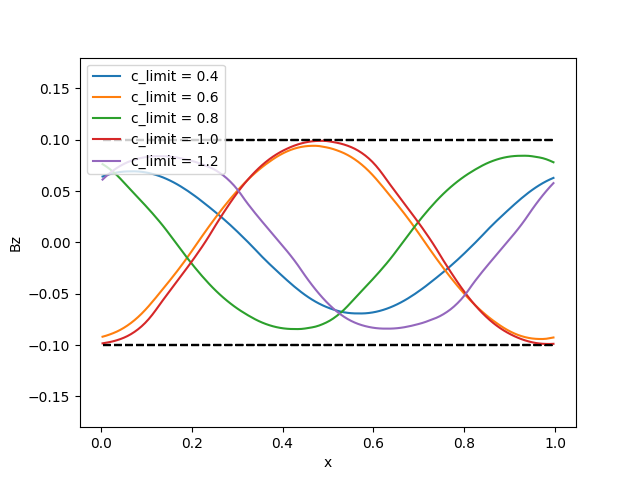
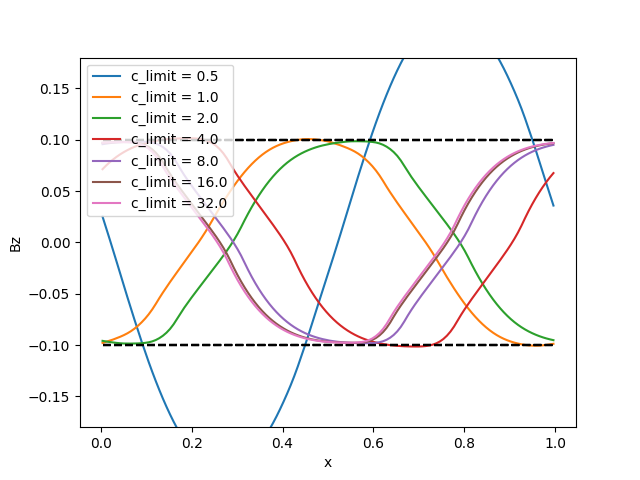
update to full Matsumoto HLL-Boris method

diff --git a/mhd-boris.py b/mhd-boris.py
@@ -11,6 +11,18 @@ Adam Reyes
 Simulate the Orszag-Tang vortex MHD problem (+more)
 with a Boris-like Integrator to control timesteps!
 
+See equations (1) -- (8) of https://arxiv.org/abs/1902.02810
+
+MAIN DIFFERENCE is that:
+
+* Momentum is now (1 + ca^2/c_limit^2) * (rho*v) instead of (rho*v)
+* Reimann solver will use modified wave speeds and U states that account for Boris factor
+* Timestep is increased according to the Boris factor
+
+* NOTE: use llf for now, not HLLD, which does not yet account for modified wave speeds
+
+I mark points of change from vanilla-MHD model with "!!!" in comments.
+
 The original problem has cf_max ~ 1.9, v_max ~ 1.6
 """
 
@@ -67,7 +79,7 @@ def get_avg(bx, by):
     return Bx, By
 
 
-def get_conserved(rho, vx, vy, vz, P, Bx, By, Bz, gamma, vol):
+def get_conserved(rho, vx, vy, vz, P, Bx, By, Bz, gamma, vol, c_limit):
     """
     Calculate the conserved variable from the primitive
     rho      is matrix of cell densities
@@ -83,10 +95,11 @@ def get_conserved(rho, vx, vy, vz, P, Bx, By, Bz, gamma, vol):
     Momy     is matrix of y-momentum in cells
     Energy   is matrix of energy in cells
     """
+    rho_A = (Bx**2 + By**2 + Bz**2) / c_limit**2  # !!!
     Mass = rho * vol
-    Momx = rho * vx * vol
-    Momy = rho * vy * vol
-    Momz = rho * vz * vol
+    Momx = (rho + rho_A) * vx * vol
+    Momy = (rho + rho_A) * vy * vol
+    Momz = (rho + rho_A) * vz * vol
     Energy = (
         (P - 0.5 * (Bx**2 + By**2 + Bz**2)) / (gamma - 1.0)
         + 0.5 * rho * (vx**2 + vy**2 + vz**2)
@@ -113,26 +126,10 @@ def get_primitive(Mass, Momx, Momy, Momz, Energy, Bx, By, Bz, gamma, vol, c_limi
     P        is matrix of cell Total pressures
     """
     rho = Mass / vol
-    vx = Momx / rho / vol
-    vy = Momy / rho / vol
-    vz = Momz / rho / vol
-    P = (
-        Energy / vol
-        - 0.5 * rho * (vx**2 + vy**2 + vz**2)
-        - 0.5 * (Bx**2 + By**2 + Bz**2)
-    ) * (gamma - 1.0) + 0.5 * (Bx**2 + By**2 + Bz**2)
-
-    # Try 2: apply boris factor in recovering the velocity
-    # c0 = np.sqrt( gamma*(P-0.5*(Bx**2+By**2+Bz**2))/rho )
-    c0 = np.sqrt(gamma * (np.maximum(P - 0.5 * (Bx**2 + By**2 + Bz**2), 1.0e-16)) / rho)
-    ca = np.sqrt((Bx**2 + By**2 + Bz**2) / rho)
-    cf = np.sqrt(c0**2 + ca**2)
-    # alphaSq = np.minimum(1.0, c_limit / cf)**2
-    alphaSq = 1.0 / (1.0 + ca**2 / c_limit**2)
-    vx *= alphaSq
-    vy *= alphaSq
-    vz *= alphaSq
-    # recalculate the pressure
+    rho_A = (Bx**2 + By**2 + Bz**2) / c_limit**2  # !!!
+    vx = Momx / (rho + rho_A) / vol
+    vy = Momy / (rho + rho_A) / vol
+    vz = Momz / (rho + rho_A) / vol
     P = (
         Energy / vol
         - 0.5 * rho * (vx**2 + vy**2 + vz**2)
@@ -687,11 +684,11 @@ def get_flux_llf(
     ca_R = np.sqrt((Bx_R**2 + By_R**2 + Bz_R**2) / rho_R)
     cf_L = np.sqrt(c0_L**2 + ca_L**2)
     cf_R = np.sqrt(c0_R**2 + ca_R**2)
-    # apply boris factor to wave speeds and momentum flux
-    # alpha_L = np.minimum(1.0, c_limit / cf_L)
-    # alpha_R = np.minimum(1.0, c_limit / cf_R)
-    # alpha = np.minimum(alpha_L, alpha_R)
-    # alphaSq = alpha**2
+    # !!! apply boris factor to wave speeds
+    alpha_L = 1.0 / np.sqrt(1.0 + (ca_L / c_limit) ** 2)
+    alpha_R = 1.0 / np.sqrt(1.0 + (ca_R / c_limit) ** 2)
+    cf_L *= alpha_L
+    cf_R *= alpha_R
 
     # left and right energies
     en_L = (
@@ -706,48 +703,67 @@ def get_flux_llf(
     )
 
     # compute star (averaged) states
-    rho_star = 0.5 * (rho_L + rho_R)
-    momx_star = 0.5 * (rho_L * vx_L + rho_R * vx_R)
-    momy_star = 0.5 * (rho_L * vy_L + rho_R * vy_R)
-    momz_star = 0.5 * (rho_L * vz_L + rho_R * vz_R)
-    en_star = 0.5 * (en_L + en_R)
-    Bx_star = 0.5 * (Bx_L + Bx_R)
-    By_star = 0.5 * (By_L + By_R)
-    Bz_star = 0.5 * (Bz_L + Bz_R)
+    # rho_star = 0.5 * (rho_L + rho_R)
+    # momx_star = 0.5 * (rho_L * vx_L + rho_R * vx_R)
+    # momy_star = 0.5 * (rho_L * vy_L + rho_R * vy_R)
+    # momz_star = 0.5 * (rho_L * vz_L + rho_R * vz_R)
+    # en_star = 0.5 * (en_L + en_R)
+    # Bx_star = 0.5 * (Bx_L + Bx_R)
+    # By_star = 0.5 * (By_L + By_R)
+    # Bz_star = 0.5 * (Bz_L + Bz_R)
 
-    P_star = (gamma - 1.0) * (
-        en_star
-        - 0.5 * (momx_star**2 + momy_star**2 + momz_star**2) / rho_star
-        - 0.5 * (Bx_star**2 + By_star**2 + Bz_star**2)
-    ) + 0.5 * (Bx_star**2 + By_star**2 + Bz_star**2)
+    # P_star = (gamma - 1.0) * (
+    #    en_star
+    #    - 0.5 * (momx_star**2 + momy_star**2 + momz_star**2) / rho_star
+    #    - 0.5 * (Bx_star**2 + By_star**2 + Bz_star**2)
+    # ) + 0.5 * (Bx_star**2 + By_star**2 + Bz_star**2)
 
     # compute fluxes (local Lax-Friedrichs/Rusanov)
-    flux_Mass = momx_star
-    flux_Momx = momx_star**2 / rho_star + P_star - Bx_star * Bx_star
-    flux_Momy = momx_star * momy_star / rho_star - Bx_star * By_star
-    flux_Momz = momx_star * momz_star / rho_star - Bx_star * Bz_star
-    flux_Energy = (en_star + P_star) * momx_star / rho_star - Bx_star * (
-        Bx_star * momx_star + By_star * momy_star + Bz_star * momz_star
-    ) / rho_star
-    flux_By = (By_star * momx_star - Bx_star * momy_star) / rho_star
-    flux_Bz = (Bz_star * momx_star - Bx_star * momz_star) / rho_star
+    # Use the star state
+    # flux_Mass = momx_star
+    # flux_Momx = momx_star**2 / rho_star + P_star - Bx_star * Bx_star
+    # flux_Momy = momx_star * momy_star / rho_star - Bx_star * By_star
+    # flux_Momz = momx_star * momz_star / rho_star - Bx_star * Bz_star
+    # flux_Energy = (en_star + P_star) * momx_star / rho_star - Bx_star * (
+    #    Bx_star * momx_star + By_star * momy_star + Bz_star * momz_star
+    # ) / rho_star
+    # flux_By = (By_star * momx_star - Bx_star * momy_star) / rho_star
+    # flux_Bz = (Bz_star * momx_star - Bx_star * momz_star) / rho_star
 
-    ## Try 1
-    # flux_Momx *= alphaSq
-    # flux_Momy *= alphaSq
-    # flux_Momz *= alphaSq
-    # cf_L *= alpha
-    # cf_R *= alpha
+    # compute fluxes (local Lax-Friedrichs/Rusanov)
+    # Average the left and right fluxes
+    flux_Mass = 0.5 * (rho_L * vx_L + rho_R * vx_R)
+    flux_Momx = 0.5 * (
+        rho_L * vx_L**2 + P_L - Bx_L**2 + rho_R * vx_R**2 + P_R - Bx_R**2
+    )
+    flux_Momy = 0.5 * (
+        rho_L * vx_L * vy_L - Bx_L * By_L + rho_R * vx_R * vy_R - Bx_R * By_R
+    )
+    flux_Momz = 0.5 * (
+        rho_L * vx_L * vz_L - Bx_L * Bz_L + rho_R * vx_R * vz_R - Bx_R * Bz_R
+    )
+    flux_Energy = 0.5 * (
+        (en_L + P_L) * vx_L
+        - Bx_L * (vx_L * Bx_L + vy_L * By_L + vz_L * Bz_L)
+        + (en_R + P_R) * vx_R
+        - Bx_R * (vx_R * Bx_R + vy_R * By_R + vz_R * Bz_R)
+    )
+    flux_By = 0.5 * (By_L * vx_L - Bx_L * vy_L + By_R * vx_R - Bx_R * vy_R)
+    flux_Bz = 0.5 * (Bz_L * vx_L - Bx_L * vz_L + Bz_R * vx_R - Bx_R * vz_R)
 
     C_L = cf_L + np.abs(vx_L)
     C_R = cf_R + np.abs(vx_R)
     C = np.maximum(C_L, C_R)
 
+    # !!! apply Boris correction to U states
+    rhoA_L = (Bx_L**2 + By_L**2 + Bz_L**2) / (c_limit**2)
+    rhoA_R = (Bx_R**2 + By_R**2 + Bz_R**2) / (c_limit**2)
+
     # add stabilizing diffusive term
     flux_Mass -= C * 0.5 * (rho_R - rho_L)
-    flux_Momx -= C * 0.5 * (rho_R * vx_R - rho_L * vx_L)
-    flux_Momy -= C * 0.5 * (rho_R * vy_R - rho_L * vy_L)
-    flux_Momz -= C * 0.5 * (rho_R * vz_R - rho_L * vz_L)
+    flux_Momx -= C * 0.5 * ((rho_R + rhoA_R) * vx_R - (rho_L + rhoA_L) * vx_L)  # !!!
+    flux_Momy -= C * 0.5 * ((rho_R + rhoA_R) * vy_R - (rho_L + rhoA_L) * vy_L)
+    flux_Momz -= C * 0.5 * ((rho_R + rhoA_R) * vz_R - (rho_L + rhoA_L) * vz_L)
     flux_Energy -= C * 0.5 * (en_R - en_L)
     flux_By -= C * 0.5 * (By_R - By_L)
     flux_Bz -= C * 0.5 * (Bz_R - Bz_L)
@@ -1035,11 +1051,11 @@ def main():
 
     # Get conserved variables
     Mass, Momx, Momy, Momz, Energy = get_conserved(
-        rho, vx, vy, vz, P, Bx, By, Bz, gamma, vol
+        rho, vx, vy, vz, P, Bx, By, Bz, gamma, vol, c_limit
     )
 
     # keep track of timesteps
-    dt_sav = []
+    dt_save = []
 
     # prep figure
     plt.figure(figsize=(4, 4), dpi=80)
@@ -1064,8 +1080,8 @@ def main():
         cf_max = np.max(cf)
         # alpha = np.minimum(1.0, c_limit / np.sqrt(c0**2 + ca**2))
         alpha1 = np.minimum(1.0, c_limit / np.sqrt(c0**2 + ca**2))
-        alpha = 1.0 / np.sqrt(1.0 + ca**2 / c_limit**2)
-        # Try 1 & 2
+        alpha = 1.0 / np.sqrt(1.0 + (ca / c_limit) ** 2)
+        # !!! apply boris factor to wave speeds
         cf *= alpha
         dt = courant_fac * np.min(dx / (cf + np.sqrt(vx**2 + vy**2 + vz**2)))
         v_max = np.max(np.sqrt(vx**2 + vy**2 + vz**2))
@@ -1135,7 +1151,7 @@ def main():
         t += dt
 
         # save timestep
-        dt_sav.append(dt)
+        dt_save.append(dt)
 
         # check div B
         divB = get_div(bx, by, dx)
@@ -1191,7 +1207,7 @@ def main():
     plt.savefig(prefix + "P_B_" + str(c_limit) + ".png", dpi=240)
     # plt.show()
 
-    # Save rho, P_B, v, vA, cf, and dt_sav
+    # Save rho, P_B, v, vA, cf, and dt_save
     Bx, By = get_avg(bx, by)
     rho, vx, vy, vz, P = get_primitive(
         Mass, Momx, Momy, Momz, Energy, Bx, By, Bz, gamma, vol, c_limit
@@ -1208,7 +1224,7 @@ def main():
     np.save(prefix + "data_v_" + str(c_limit) + ".npy", v.T)
     np.save(prefix + "data_ca_" + str(c_limit) + ".npy", ca.T)
     np.save(prefix + "data_cf_" + str(c_limit) + ".npy", cf.T)
-    np.save(prefix + "data_dt_" + str(c_limit) + ".npy", dt_sav)
+    np.save(prefix + "data_dt_" + str(c_limit) + ".npy", dt_save)
 
     return
 

diff --git a/mhd-fmask.py b/mhd-fmask.py
@@ -28,7 +28,7 @@ def mask_function(rho, rho_limit):
     Masking function to apply to the density field
     rho       is matrix of cell densities
     rho_limit is the density limit for masking
-    mask      is ther masking matrix
+    mask      is the masking matrix
     """
     mask = np.abs(rho) > rho_limit
     # mask = 0.5 + 0.5*np.tanh((np.log10(rho) - np.log10(rho_limit))/0.2)
@@ -584,7 +584,7 @@ def main():
     )
 
     # keep track of timesteps
-    dt_sav = []
+    dt_save = []
 
     # prep figure
     plt.figure(figsize=(4, 4), dpi=80)
@@ -678,7 +678,7 @@ def main():
         t += dt
 
         # save timestep
-        dt_sav.append(dt)
+        dt_save.append(dt)
 
         # check div B
         divB = get_div(bx, by, dx)
@@ -732,7 +732,7 @@ def main():
     plt.savefig(prefix + "P_B_" + str(rho_limit) + ".png", dpi=240)
     # plt.show()
 
-    # Save rho, P_B, v, vA, cf, and dt_sav
+    # Save rho, P_B, v, vA, cf, and dt_save
     Bx, By = get_avg(bx, by)
     rho, vx, vy, vz, P = get_primitive(
         Mass, Momx, Momy, Momz, Energy, Bx, By, Bz, gamma, vol
@@ -749,7 +749,7 @@ def main():
     np.save(prefix + "data_v_" + str(rho_limit) + ".npy", v.T)
     np.save(prefix + "data_ca_" + str(rho_limit) + ".npy", ca.T)
     np.save(prefix + "data_cf_" + str(rho_limit) + ".npy", cf.T)
-    np.save(prefix + "data_dt_" + str(rho_limit) + ".npy", dt_sav)
+    np.save(prefix + "data_dt_" + str(rho_limit) + ".npy", dt_save)
 
     return
 

diff --git a/analysis.py b/analysis.py
@@ -7,9 +7,9 @@ import matplotlib.pyplot as plt
 def main():
     for prob_id in [1, 2]:
         if prob_id == 1:
-            c_limits = [1.0, 1.2, 1.4, 1.6, 1.8, 2.0]
+            c_limits = [1.6, 1.8, 2.0, 2.2, 2.4]
         elif prob_id == 2:
-            c_limits = [0.4, 0.6, 0.8, 1.0, 1.2]
+            c_limits = [0.5, 1.0, 2.0, 4.0, 8.0, 16.0, 32.0]
 
         rho = {}
         P_B = {}

diff --git a/README.md b/README.md
@@ -1,12 +1,15 @@
 # mhd-boris
+
 2.5D Constrained Transport Magnetohydrodynamics
 
-Philip Mocz (2024), [@PMocz](https://twitter.com/PMocz)
+Philip Mocz (2024), [@PMocz](https://x.com/PMocz)
 
 Based on 
 [algorithm write-up](https://levelup.gitconnected.com/create-your-own-constrained-transport-magnetohydrodynamics-simulation-with-python-276f787f537d)
 
 See also: https://arxiv.org/abs/1902.02810
+
+We solve equations (1) -- (8) in the paper above
 
 Simulate the Orszag-Tang vortex MHD problem
 with the Boris-like Integrator
@@ -14,17 +17,18 @@ with the Boris-like Integrator
 Run the simulations (`python mhd-boris.py <prob_id> <c_limit>`) and produce analysis with:
 
 ```bash
+python mhd-boris.py 1 2.4
+python mhd-boris.py 1 2.2
 python mhd-boris.py 1 2.0
 python mhd-boris.py 1 1.8
 python mhd-boris.py 1 1.6
-python mhd-boris.py 1 1.4
-python mhd-boris.py 1 1.2
-python mhd-boris.py 1 1.0
-python mhd-boris.py 2 1.2
+python mhd-boris.py 2 32.0
+python mhd-boris.py 2 16.0
+python mhd-boris.py 2 8.0
+python mhd-boris.py 2 4.0
+python mhd-boris.py 2 2.0
 python mhd-boris.py 2 1.0
-python mhd-boris.py 2 0.8
-python mhd-boris.py 2 0.6
-python mhd-boris.py 2 0.4
+python mhd-boris.py 2 0.5
 python analysis.py
 ```
 
